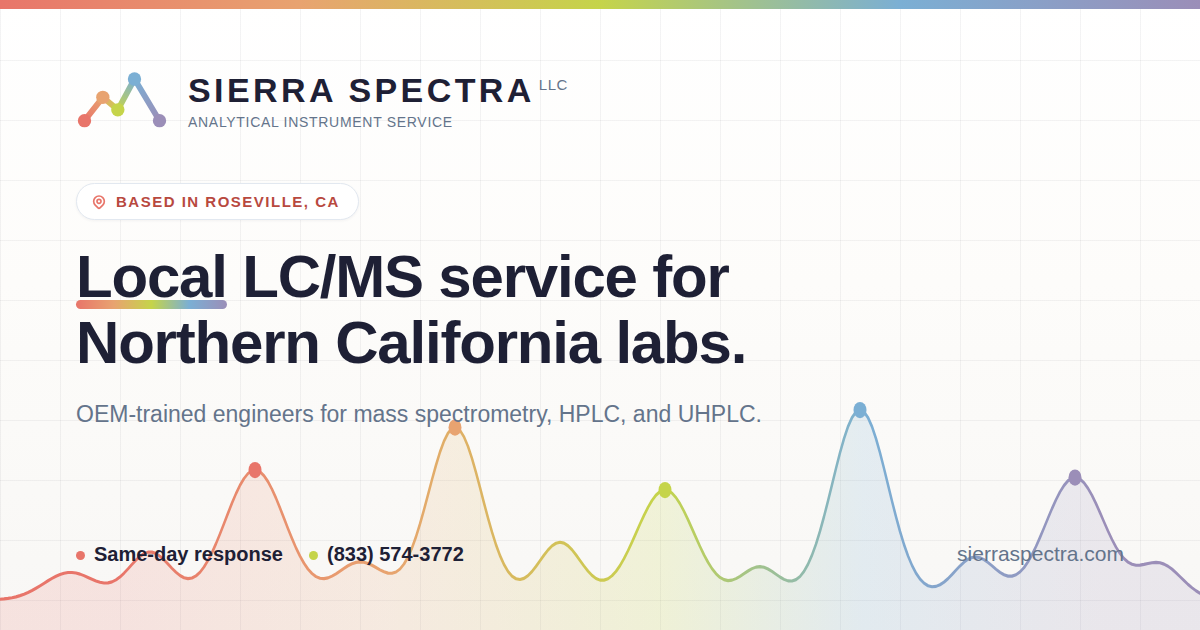
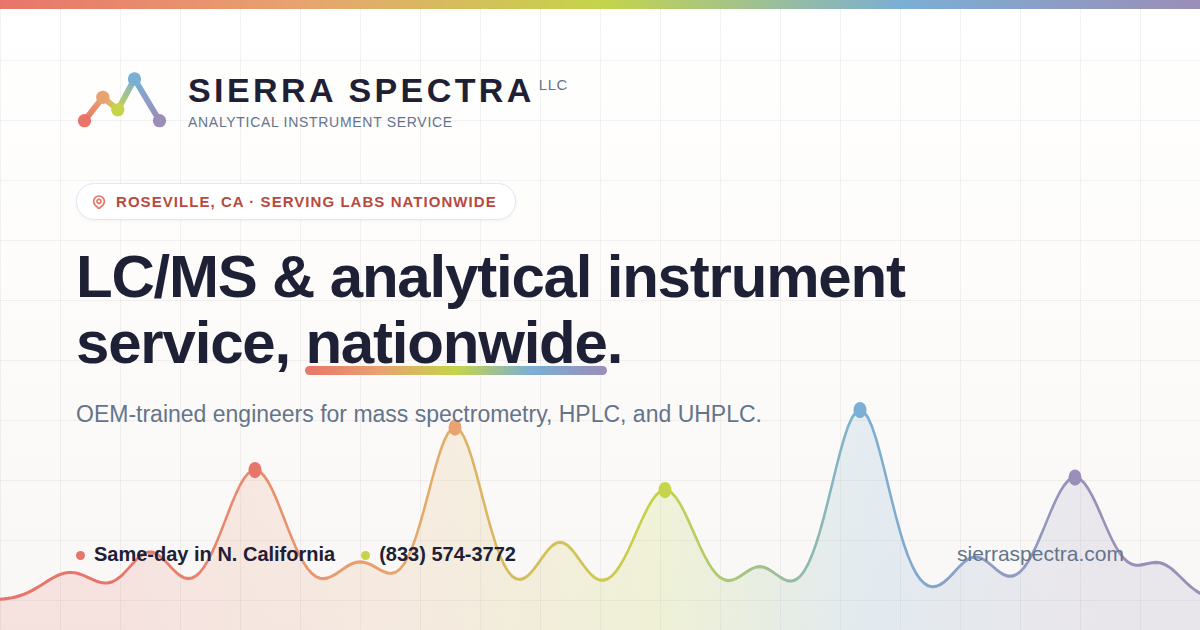
Widen positioning to nationwide, keep same-day as a regional advantage
The previous copy capped the business at Northern California, which is
wrong - clients are national. The differentiator against 2K Scientific was
never "we are local," it is that we state exactly where we go and how
fast while their site says nothing about coverage at all. A two-tier claim
is more specific than the old one, not less, and it does not turn away an
out-of-state lab.

- h1 is now "LC/MS and analytical instrument service, nationwide."
- hero subhead leads with national coverage and keeps Roseville as the
  reason same-day is credible in Northern California, not as a boundary
- hero proof list, stats bar, and the About highlight card reworded
- Service Area section split into two tiers: a same-day territory (the
  city list, now clearly a speed promise rather than a limit) and a
  nationwide tier covering PMs, repairs, installs, relocations, and
  multi-site contracts
- FAQ "what areas do you cover" rewritten to match
- areaServed in the JSON-LD now leads with United States, keeping the
  cities for local search; FAQPage answer updated in step
- title, meta description, OG/Twitter copy, and the schema description
  all lead with nationwide; regenerated og-image.png to match

Verified: no scope-capping copy left, valid JSON-LD and HTML, no overflow
320px to 1600px, form and mobile nav still working.

Claude-Session: https://claude.ai/code/session_01Lbn8ZE2V5g4eFB2iW3KtXN

Changed region(s): [[0.0617, 0.3921, 0.7708, 0.6032], [0.1542, 0.8444, 0.4317, 0.9048], [0.0925, 0.3016, 0.4317, 0.3317]]

diff --git a/index.html b/index.html
@@ -4,8 +4,8 @@
     <meta charset="UTF-8">
     <meta name="viewport" content="width=device-width, initial-scale=1.0">
 
-    <title>LC/MS &amp; Analytical Instrument Service in Roseville, CA | Sierra Spectra LLC</title>
-    <meta name="description" content="Local LC/MS and analytical instrument service for Northern California labs. OEM-trained engineers in Roseville, CA with same-day emergency response.">
+    <title>Nationwide LC/MS &amp; Analytical Instrument Service | Sierra Spectra LLC</title>
+    <meta name="description" content="OEM-trained engineers servicing LC/MS, HPLC, and UHPLC systems nationwide. Based in Roseville, CA, with same-day onsite response across Northern California.">
     <link rel="canonical" href="https://sierraspectra.com/">
     <meta name="robots" content="index, follow">
     <meta name="theme-color" content="#1e2035">
@@ -18,18 +18,18 @@
     <meta property="og:type" content="website">
     <meta property="og:site_name" content="Sierra Spectra LLC">
     <meta property="og:url" content="https://sierraspectra.com/">
-    <meta property="og:title" content="Sierra Spectra LLC - Local LC/MS Service for Northern California Labs">
-    <meta property="og:description" content="Local LC/MS and analytical instrument service for Northern California labs. OEM-trained engineers in Roseville, CA with same-day emergency response.">
+    <meta property="og:title" content="Sierra Spectra LLC - Nationwide LC/MS &amp; Analytical Instrument Service">
+    <meta property="og:description" content="OEM-trained engineers servicing LC/MS, HPLC, and UHPLC systems nationwide. Based in Roseville, CA, with same-day onsite response across Northern California.">
     <meta property="og:image" content="https://sierraspectra.com/assets/og-image.png">
     <meta property="og:image:width" content="1200">
     <meta property="og:image:height" content="630">
-    <meta property="og:image:alt" content="Sierra Spectra LLC - Local LC/MS service for Northern California labs, based in Roseville">
+    <meta property="og:image:alt" content="Sierra Spectra LLC - Nationwide LC/MS and analytical instrument service, based in Roseville, California">
     <meta property="og:locale" content="en_US">
 
     <!-- Twitter / X card -->
     <meta name="twitter:card" content="summary_large_image">
-    <meta name="twitter:title" content="Sierra Spectra LLC - Local LC/MS Service for Northern California Labs">
-    <meta name="twitter:description" content="Local LC/MS and analytical instrument service for Northern California labs. OEM-trained engineers based in Roseville, CA.">
+    <meta name="twitter:title" content="Sierra Spectra LLC - Nationwide LC/MS &amp; Analytical Instrument Service">
+    <meta name="twitter:description" content="OEM-trained engineers servicing LC/MS, HPLC, and UHPLC systems nationwide. Based in Roseville, CA.">
     <meta name="twitter:image" content="https://sierraspectra.com/assets/og-image.png">
 
     <link rel="preconnect" href="https://fonts.googleapis.com">
@@ -1075,6 +1075,14 @@
             align-items: start;
         }
 
+        .coverage-text h2 {
+            font-size: clamp(1.5rem, 3vw, 2rem);
+            font-weight: 700;
+            color: var(--navy);
+            line-height: 1.25;
+            margin-bottom: 1.25rem;
+        }
+
         .coverage-text p {
             font-size: 0.95rem;
             color: var(--slate);
@@ -1082,12 +1090,80 @@
             margin-bottom: 1.1rem;
         }
 
+        /* Two tiers: the fast-response zone and everywhere else. The city list
+           is a speed promise, not the boundary of where we work. */
+        .coverage-tiers {
+            display: grid;
+            gap: 1rem;
+        }
+
+        .coverage-tier {
+            border: 1px solid var(--border);
+            border-radius: 10px;
+            padding: 1.4rem 1.5rem;
+            background: var(--white);
+            border-left: 4px solid var(--accent, var(--lime));
+        }
+
+        .coverage-tier.is-national {
+            --accent: var(--sky);
+            background: var(--gray-bg);
+        }
+
+        .coverage-tier-head {
+            margin-bottom: 1rem;
+        }
+
+        .coverage-tier-badge {
+            display: inline-block;
+            font-size: 0.65rem;
+            font-weight: 700;
+            letter-spacing: 0.1em;
+            text-transform: uppercase;
+            color: var(--lime-ink);
+            margin-bottom: 0.3rem;
+        }
+
+        .coverage-tier.is-national .coverage-tier-badge {
+            color: var(--sky-ink);
+        }
+
+        .coverage-tier-head h3 {
+            font-size: 1rem;
+            font-weight: 600;
+            color: var(--navy);
+        }
+
+        .coverage-national {
+            list-style: none;
+            display: grid;
+            gap: 0.45rem;
+        }
+
+        .coverage-national li {
+            position: relative;
+            padding-left: 1.4rem;
+            font-size: 0.9rem;
+            color: var(--slate);
+        }
+
+        .coverage-national li::before {
+            content: '';
+            position: absolute;
+            left: 0;
+            top: 0.55em;
+            width: 9px;
+            height: 5px;
+            border-left: 2px solid var(--sky);
+            border-bottom: 2px solid var(--sky);
+            transform: rotate(-45deg);
+        }
+
         .coverage-cities {
             display: grid;
             grid-template-columns: repeat(3, 1fr);
             gap: 0.5rem 1rem;
             list-style: none;
-            margin-top: 0.5rem;
         }
 
         .coverage-cities li {
@@ -1108,9 +1184,14 @@
         }
 
         .coverage-note {
-            margin-top: 1.5rem;
+            margin-top: 1.1rem;
             font-size: 0.85rem;
             color: var(--slate-lt);
+        }
+
+        .coverage-note a {
+            color: var(--sky-ink);
+            font-weight: 600;
         }
 
         /* ===== FAQ ===== */
@@ -1323,6 +1404,8 @@
                 grid-template-columns: 1fr 1fr;
             }
 
+            .coverage-text h2 br { display: none; }
+
             .about-highlights {
                 grid-template-columns: 1fr 1fr;
             }
@@ -1383,7 +1466,7 @@
       "@id": "https://sierraspectra.com/#business",
       "name": "Sierra Spectra LLC",
       "alternateName": "Sierra Spectra",
-      "description": "Local LC/MS and analytical instrument service for Northern California laboratories. OEM-trained engineers for mass spectrometry, HPLC, and UHPLC systems, based in Roseville, CA.",
+      "description": "Nationwide LC/MS and analytical instrument service. OEM-trained engineers for mass spectrometry, HPLC, and UHPLC systems, headquartered in Roseville, CA, with same-day onsite response across Northern California.",
       "url": "https://sierraspectra.com/",
       "logo": "https://sierraspectra.com/assets/SSLogo_FullColor.png",
       "image": "https://sierraspectra.com/assets/og-image.png",
@@ -1397,6 +1480,8 @@
         "addressCountry": "US"
       },
       "areaServed": [
+        { "@type": "Country", "name": "United States" },
+        { "@type": "State", "name": "California" },
         { "@type": "State", "name": "Northern California" },
         { "@type": "City", "name": "Roseville" },
         { "@type": "City", "name": "Sacramento" },
@@ -1479,7 +1564,7 @@
           "name": "What areas do you cover?",
           "acceptedAnswer": {
             "@type": "Answer",
-            "text": "We are based in Roseville, CA and serve the greater Sacramento region and Northern California, including Rocklin, Sacramento, Folsom, West Sacramento, Davis, Elk Grove, Woodland, Vacaville, Fairfield, Stockton, and Auburn."
+            "text": "We serve laboratories nationwide. Our engineers are headquartered in Roseville, CA, so labs across Northern California get same-day and next-day onsite response. Everywhere else in the country we schedule onsite visits, preventative maintenance, installations, and relocations, and support service contracts."
           }
         },
         {
@@ -1556,18 +1641,18 @@
                     <path d="M17.657 16.657L13.414 20.9a1.998 1.998 0 01-2.827 0l-4.244-4.243a8 8 0 1111.314 0z"/>
                     <path d="M15 11a3 3 0 11-6 0 3 3 0 016 0z"/>
                 </svg>
-                Based in Roseville, CA
+                Roseville, CA - serving labs nationwide
             </div>
-            <h1><span class="spectrum-mark">Local</span> LC/MS service for Northern California labs.</h1>
-            <p class="hero-sub">OEM-trained engineers for mass spectrometry, HPLC, and UHPLC systems. We're based in Roseville, not three time zones away, which is what makes same-day response on a down instrument realistic instead of aspirational.</p>
+            <h1>LC/MS and analytical instrument service, <span class="spectrum-mark">nationwide</span>.</h1>
+            <p class="hero-sub">OEM-trained engineers for mass spectrometry, HPLC, and UHPLC systems, supporting labs across the country. We're headquartered in Roseville, CA, so Northern California gets same-day response when an instrument goes down.</p>
             <div class="hero-ctas">
                 <a href="#contact" class="btn-primary">Request Service</a>
                 <a href="#services" class="btn-ghost">View Services</a>
             </div>
             <ul class="hero-proof">
-                <li>Onsite across the Sacramento region</li>
+                <li>Same-day onsite in Northern California</li>
+                <li>Scheduled nationwide coverage</li>
                 <li>Sciex, Agilent, Waters, Shimadzu &amp; more</li>
-                <li>Contracts or one-off visits</li>
             </ul>
         </div>
 
@@ -1654,8 +1739,8 @@
                         </svg>
                     </div>
                     <div>
-                        <div class="stat-label">Northern California</div>
-                        <div class="stat-sub">Pharma, research &amp; industrial labs</div>
+                        <div class="stat-label">Nationwide Coverage</div>
+                        <div class="stat-sub">Same-day in Northern California</div>
                     </div>
                 </div>
             </div>
@@ -1896,8 +1981,8 @@
                             <path d="M17.657 16.657L13.414 20.9a1.998 1.998 0 01-2.827 0l-4.244-4.243a8 8 0 1111.314 0z"/>
                             <path d="M15 11a3 3 0 11-6 0 3 3 0 016 0z"/>
                         </svg>
-                        <h4>Northern California</h4>
-                        <p>Based in Roseville, serving the greater Sacramento region</p>
+                        <h4>Local Base, National Reach</h4>
+                        <p>Headquartered in Roseville, CA, serving labs across the country</p>
                     </div>
                 </div>
             </div>
@@ -1941,35 +2026,61 @@
             <div class="coverage-grid">
                 <div class="coverage-text">
                     <div class="section-eyebrow is-purple">Service Area</div>
-                    <h2 style="font-size: clamp(1.5rem, 3vw, 2rem); font-weight: 700; color: var(--navy); margin-bottom: 1.25rem;">Where We Work</h2>
-                    <p>We're based in Roseville and cover the greater Sacramento region and Northern California, with regular onsite visits to the pharmaceutical, biotech, and research labs concentrated along the I-80 and Highway 50 corridors.</p>
-                    <p>Travel beyond the listed areas is often possible for contract clients and scheduled preventative maintenance. If you're outside this list, ask.</p>
+                    <h2>Nationwide Coverage, With a Same-Day Home Base</h2>
+                    <p>We support laboratories across the country. Wherever you are, we schedule onsite service, preventative maintenance, installations, and relocations, and we back multi-site contracts for labs with instruments in more than one state.</p>
+                    <p>Our engineers are headquartered in Roseville, CA, so labs across Northern California get something distance can't buy: same-day and next-day response when an instrument goes down.</p>
+                    <a href="#contact" class="about-cta">
+                        Tell us where your lab is
+                        <svg width="16" height="16" viewBox="0 0 24 24" fill="none" stroke="currentColor" stroke-width="2.5" stroke-linecap="round" stroke-linejoin="round" aria-hidden="true">
+                            <path d="M5 12h14M12 5l7 7-7 7"/>
+                        </svg>
+                    </a>
                 </div>
 
-                <div>
-                    <!--
-                      TODO - CONFIRM OR TRIM THIS LIST. This is the one place on the
-                      page that commits you to driving somewhere. It was drafted from
-                      "Northern California / Roseville" and the biotech corridors near
-                      Sacramento. Delete any city you would not actually travel to, and
-                      add the ones you would (Bay Area? Reno? Chico? Modesto?).
-                      Keep it in sync with "areaServed" in the JSON-LD block in <head>.
-                    -->
-                    <ul class="coverage-cities">
-                        <li>Roseville</li>
-                        <li>Rocklin</li>
-                        <li>Sacramento</li>
-                        <li>Folsom</li>
-                        <li>West Sacramento</li>
-                        <li>Davis</li>
-                        <li>Elk Grove</li>
-                        <li>Woodland</li>
-                        <li>Vacaville</li>
-                        <li>Fairfield</li>
-                        <li>Stockton</li>
-                        <li>Auburn</li>
-                    </ul>
-                    <p class="coverage-note">Emergency and contract coverage may extend further. <a href="#contact" style="color: var(--blue);">Ask about your location</a>.</p>
+                <div class="coverage-tiers">
+                    <div class="coverage-tier is-same-day">
+                        <div class="coverage-tier-head">
+                            <span class="coverage-tier-badge">Same-day territory</span>
+                            <h3>Northern California</h3>
+                        </div>
+                        <!--
+                          TODO - CONFIRM OR TRIM THIS LIST. These are the cities where
+                          you're committing to a same-day/next-day drive, so they should
+                          be the ones you'd genuinely reach that fast. Add or remove
+                          freely (Bay Area? Reno? Chico? Modesto?) and keep it in sync
+                          with "areaServed" in the JSON-LD block in <head>.
+                          This list is NOT the limit of where you work - the nationwide
+                          tier below covers everywhere else.
+                        -->
+                        <ul class="coverage-cities">
+                            <li>Roseville</li>
+                            <li>Rocklin</li>
+                            <li>Sacramento</li>
+                            <li>Folsom</li>
+                            <li>West Sacramento</li>
+                            <li>Davis</li>
+                            <li>Elk Grove</li>
+                            <li>Woodland</li>
+                            <li>Vacaville</li>
+                            <li>Fairfield</li>
+                            <li>Stockton</li>
+                            <li>Auburn</li>
+                        </ul>
+                    </div>
+
+                    <div class="coverage-tier is-national">
+                        <div class="coverage-tier-head">
+                            <span class="coverage-tier-badge">Scheduled onsite</span>
+                            <h3>Everywhere else in the U.S.</h3>
+                        </div>
+                        <ul class="coverage-national">
+                            <li>Preventative maintenance programs</li>
+                            <li>Repairs and troubleshooting visits</li>
+                            <li>Installations and relocations</li>
+                            <li>Multi-site service contracts</li>
+                        </ul>
+                        <p class="coverage-note">Out of state? <a href="#contact">Ask about scheduling</a> - travel is routine for us.</p>
+                    </div>
                 </div>
             </div>
         </div>
@@ -2016,7 +2127,7 @@
                 <details class="faq-item">
                     <summary>What areas do you cover?</summary>
                     <div class="faq-answer">
-                        <p>We're based in Roseville, CA and serve the greater Sacramento region and Northern California. See <a href="#coverage">our service area</a> for the cities we visit regularly. Coverage often extends further for contract clients and scheduled work.</p>
+                        <p>We serve laboratories nationwide. Our engineers are headquartered in Roseville, CA, so labs across Northern California get same-day and next-day onsite response; everywhere else in the country we schedule onsite visits, PMs, installations, and relocations, and we support multi-site contracts. See <a href="#coverage">our service area</a> for the breakdown.</p>
                     </div>
                 </details>
 
